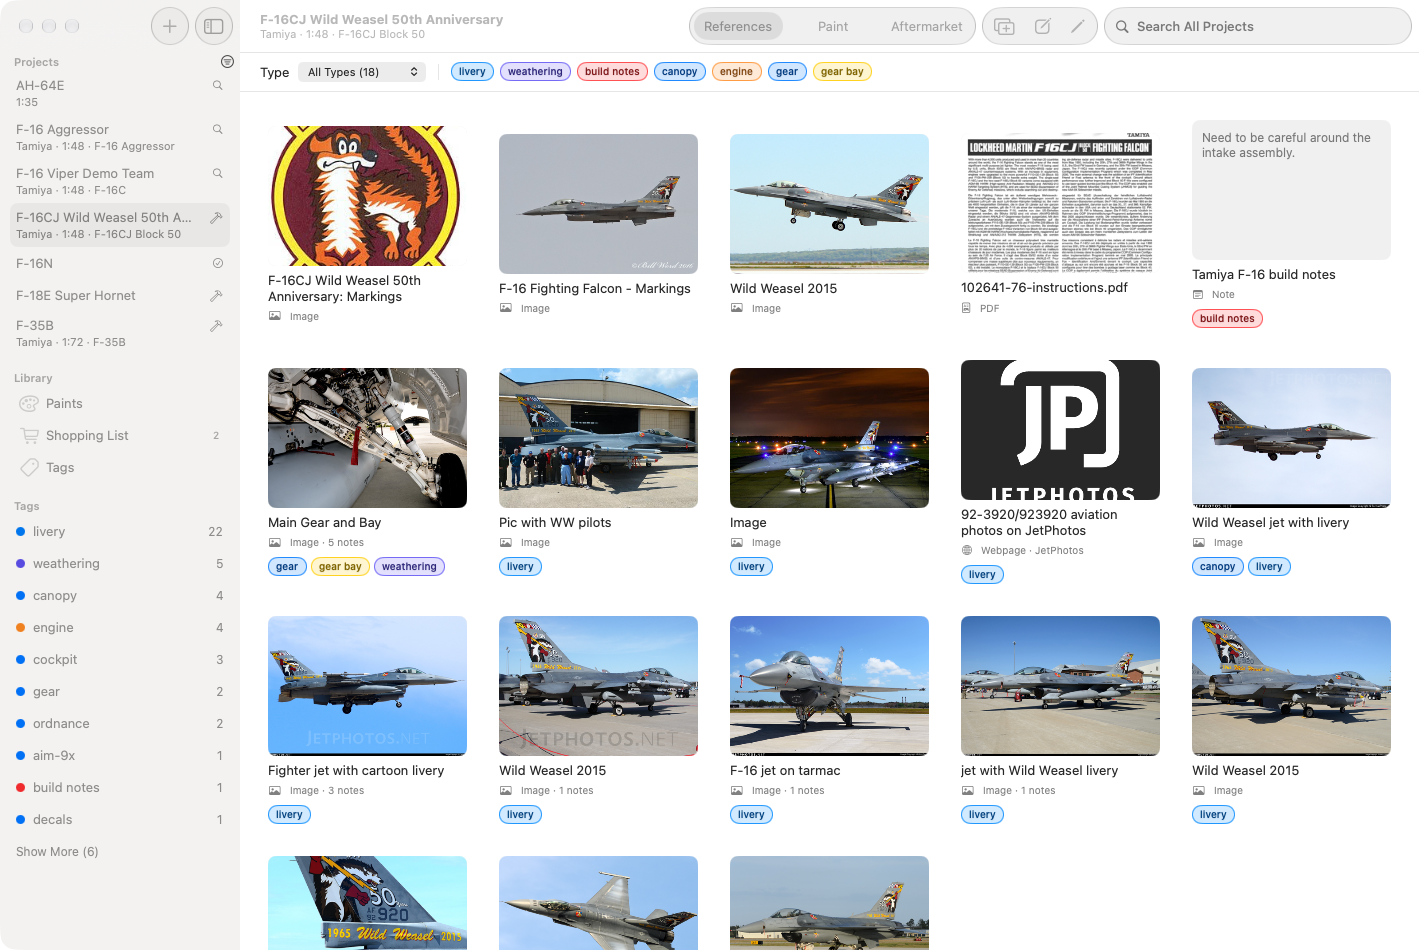
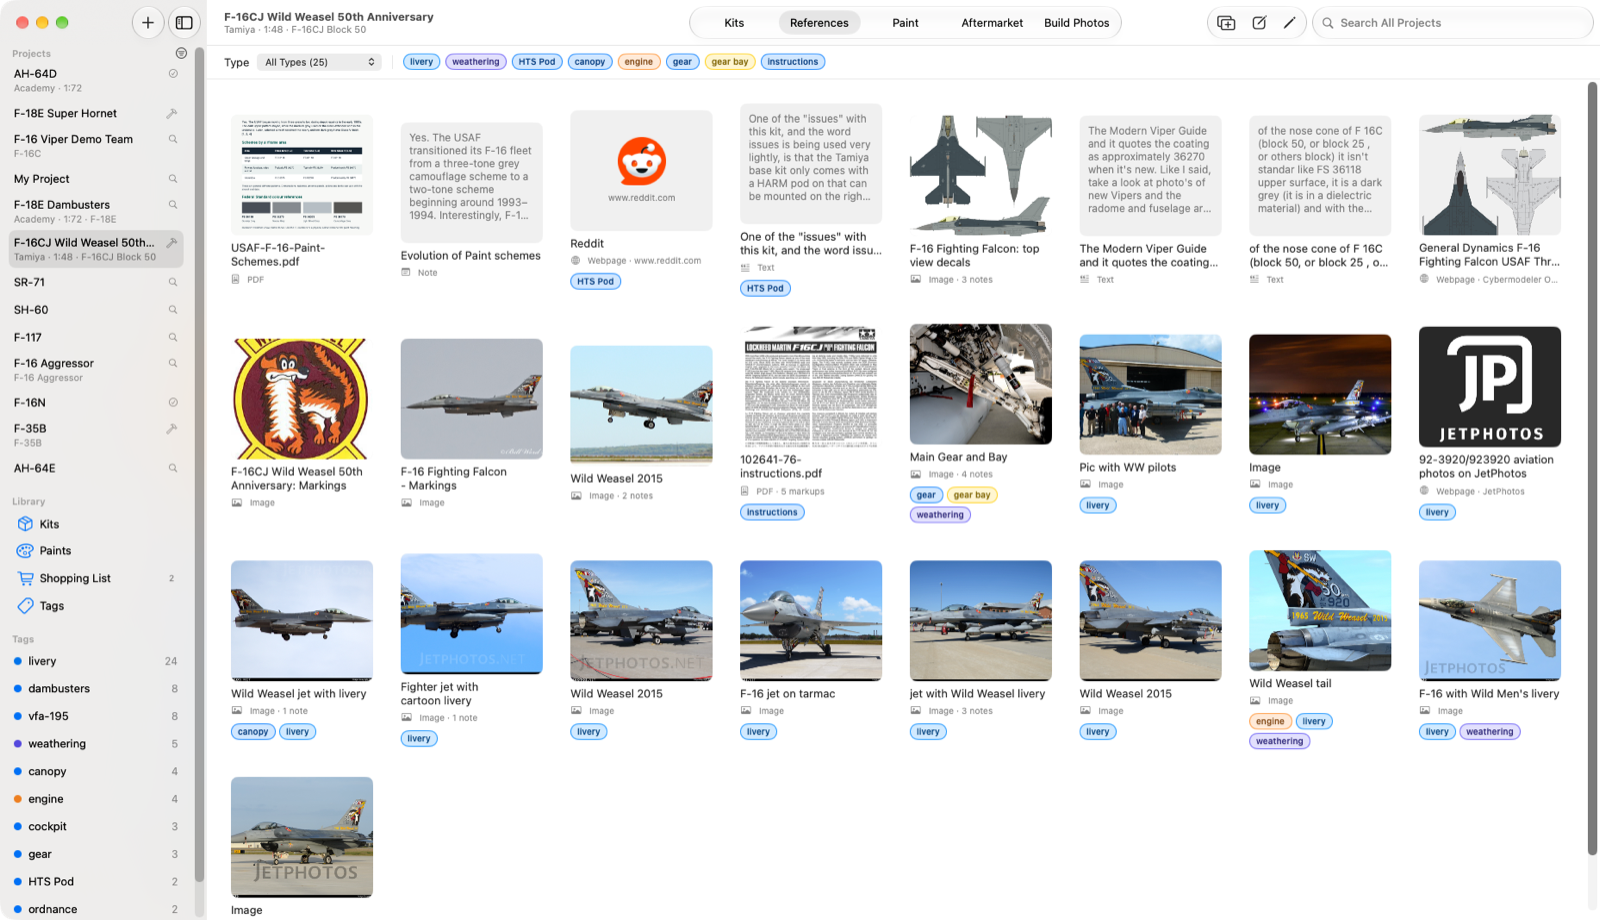
Add the Safari extension and refresh the screenshots
Adds a Safari extension section for BenchBook 1.1.1, replaces the Kits,
Safari and Custom mixes placeholders with screenshots, and retakes the
other shots in the current app. Kits and Search go full width so their
strips stay readable, and the nav links hide below 840px so the bar
no longer overflows.

Claude-Session: https://claude.ai/code/session_01W8jcz1cSFdx9EVAmvH3kMR

diff --git a/index.html b/index.html
@@ -23,6 +23,7 @@
     <nav class="nav-links" aria-label="Sections">
       <a href="#kits">Kits</a>
       <a href="#capture">Capture</a>
+      <a href="#safari">Safari</a>
       <a href="#markup">Mark Up</a>
       <a href="#pdf">PDFs</a>
       <a href="#paints">Paints</a>
@@ -53,11 +54,11 @@
         </a>
         <a class="button secondary" href="https://github.com/jvanlint/BenchBook">View on GitHub</a>
       </div>
-      <p class="fineprint">Mac: version 1.1 · Free · Requires macOS 15 or later · Signed and notarised by Apple</p>
+      <p class="fineprint">Mac: version 1.1.1 · Free · Requires macOS 15 or later · Signed and notarised by Apple</p>
       <p class="fineprint">Windows: preview · Free · Requires Windows 10 (version 2004) or later · Not yet signed</p>
 
       <div class="hero-shot">
-        <img class="shot" src="assets/screens/main.png" width="1419" height="950"
+        <img class="shot" src="assets/screens/main.png" width="1600" height="920"
              alt="BenchBook's main window: projects and tags in the sidebar, and an F-16CJ Wild Weasel project's references — photos, instructions, a note and a webpage — with coloured tags.">
       </div>
     </div>
@@ -73,7 +74,7 @@
     <div class="highlight">
       <div class="glyph blue"><svg viewBox="0 0 24 24" fill="none" stroke="currentColor" stroke-width="2" stroke-linecap="round" stroke-linejoin="round" aria-hidden="true"><path d="M12 3v12m0 0-4-4m4 4 4-4M4 17v2a2 2 0 0 0 2 2h12a2 2 0 0 0 2-2v-2"/></svg></div>
       <h3>Capture from anywhere</h3>
-      <p>Drag, paste or share photos, PDFs, web pages, videos and text straight into a project.</p>
+      <p>Drag, paste or share photos, PDFs, web pages, videos and text straight into a project, or save them from Safari with a right-click.</p>
     </div>
     <div class="highlight">
       <div class="glyph yellow"><svg viewBox="0 0 24 24" fill="none" stroke="currentColor" stroke-width="2" stroke-linecap="round" stroke-linejoin="round" aria-hidden="true"><rect x="3" y="4" width="18" height="16" rx="2"/><rect x="7" y="8" width="6" height="5" stroke-dasharray="2 2"/></svg></div>
@@ -109,12 +110,12 @@
         <li>Move or copy references to another project by dragging them onto it in the sidebar, notes and markups included.</li>
       </ul>
     </div>
-    <img class="shot cropped" src="assets/screens/aftermarket.png" loading="lazy" decoding="async" width="1419" height="300"
+    <img class="shot cropped" src="assets/screens/aftermarket.png" loading="lazy" decoding="async" width="1600" height="236"
          alt="A project's Aftermarket tab listing FOD covers, an ALQ-131 centre-line pod and LAU rails, each resin at 1:48, with pictures and a status of Considering or In stash.">
   </section>
 
   <!-- Kits -->
-  <section class="wrap feature flip" id="kits">
+  <section class="wrap feature wide" id="kits">
     <div class="feature-text">
       <span class="tag">Kits · New in 1.1 for Mac</span>
       <h2>Know what's in the stash.</h2>
@@ -127,8 +128,8 @@
         <li>Take the box art with your iPhone's camera, straight into the kit.</li>
       </ul>
     </div>
-    <img class="shot" src="assets/screens/kits-placeholder.svg" loading="lazy" decoding="async" width="1400" height="900"
-         alt="Placeholder for a screenshot of the Kits catalogue.">
+    <img class="shot cropped" src="assets/screens/kits.png" loading="lazy" decoding="async" width="1600" height="165"
+         alt="An F-16CJ Wild Weasel project's Kits tab listing Tamiya's 1:48 F-16CJ Block 50 Fighting Falcon, kit 61098, with its box art and a status of WIP.">
   </section>
 
   <!-- Capture -->
@@ -144,12 +145,30 @@
         <li>Select a whole set by dragging a rectangle across the gallery, just like in Finder.</li>
       </ul>
     </div>
-    <img class="shot" src="assets/screens/selection.png" loading="lazy" decoding="async" width="980" height="653"
-         alt="Dragging a selection rectangle across the References gallery to select several tiles: photos, a note and a gear-bay image with five notes.">
+    <img class="shot" src="assets/screens/selection.png" loading="lazy" decoding="async" width="1388" height="588"
+         alt="Dragging a selection rectangle across the References gallery to select ten tiles: an instructions PDF, a gear-bay photo with four notes, a JetPhotos page and several F-16 photos.">
+  </section>
+
+  <!-- Safari extension -->
+  <section class="wrap feature" id="safari">
+    <div class="feature-text">
+      <span class="tag">Safari extension · New in 1.1.1 for Mac</span>
+      <h2>Right-click. Saved.</h2>
+      <p>Turn on BenchBook in Safari's settings, then right-click any page, image or highlighted text and save it to BenchBook from the menu. It goes straight into the project you used last, and a small notice says where it went.</p>
+      <ul class="points">
+        <li>Change your mind? Click <strong>Change…</strong> in the notice to move it to another project, or add tags and a note.</li>
+        <li>Choose the project, tags and note before you save with the BenchBook button in Safari's toolbar.</li>
+        <li>Save a PDF open in Safari as the PDF itself, including from sites you're signed in to.</li>
+        <li>Save a page twice and BenchBook tells you it's already there, instead of adding a copy.</li>
+        <li>The extension talks only to BenchBook on your Mac. Requires Safari 18.4 or later.</li>
+      </ul>
+    </div>
+    <img class="shot" src="assets/screens/safari.png" loading="lazy" decoding="async" width="834" height="560"
+         alt="A Wikipedia page in Safari with the VFA-195 Dambusters squadron badge, and BenchBook's Change where it's saved panel in the corner: Project set to F-18E Dambusters, with Tags and Note fields and Cancel and Save buttons.">
   </section>
 
   <!-- Image notes -->
-  <section class="wrap feature" id="markup">
+  <section class="wrap feature flip" id="markup">
     <div class="feature-text">
       <span class="tag">Image notes</span>
       <h2>Write on the photo, not on a sticky note.</h2>
@@ -161,11 +180,11 @@
       </ul>
     </div>
     <img class="shot" src="assets/screens/image-notes.png" loading="lazy" decoding="async" width="1490" height="934"
-         alt="The image viewer showing an F-16 main gear bay with five numbered boxes drawn on it, and their notes listed in the side panel: chipping, discolouration and a gun metal colour.">
+         alt="The image viewer showing an F-16CJ Wild Weasel with three numbered boxes drawn on it, and their notes listed in the side panel: the HTS pod's left cheek, launch rail weathering and a vent between two decals.">
   </section>
 
   <!-- PDF markup -->
-  <section class="wrap feature flip" id="pdf">
+  <section class="wrap feature" id="pdf">
     <div class="feature-text">
       <span class="tag">PDF markup</span>
       <h2>Mark up the instructions, not a printout.</h2>
@@ -176,8 +195,8 @@
         <li>Your markups sit on top. The original PDF is never edited.</li>
       </ul>
     </div>
-    <img class="shot" src="assets/screens/pdf-markup.png" loading="lazy" decoding="async" width="1379" height="1139"
-         alt="The PDF viewer showing page 2 of F-16CJ kit instructions with page thumbnails, yellow highlights on two assembly steps, a note and a red arrow, and the five numbered markups listed in the side panel.">
+    <img class="shot" src="assets/screens/pdf-markup.png" loading="lazy" decoding="async" width="1095" height="942"
+         alt="Page 2 of Tamiya's F-16CJ instructions in BenchBook's PDF viewer, with highlights on the cockpit and landing-gear steps and on part D6, a yellow note and a red arrow, all listed in the side panel beside the page thumbnails.">
   </section>
 
   <!-- Compare -->
@@ -193,7 +212,7 @@
       </ul>
     </div>
     <img class="shot" src="assets/screens/compare.png" loading="lazy" decoding="async" width="1692" height="913"
-         alt="Two F-16 photos side by side in one window, each zoomed separately with numbered note boxes; the selected image is outlined and its note shows in the side panel.">
+         alt="The Compare window with two F-16CJ photos side by side, each with numbered boxes, and the selected photo's note in the side panel: no demarcation line suggests the two-tone USAF scheme.">
   </section>
 
   <!-- Paints -->
@@ -211,8 +230,8 @@
         <li><a href="#paint-lists">Download ready-made lists</a> for Tamiya, Mr. Hobby, AK Interactive and Vallejo.</li>
       </ul>
     </div>
-    <img class="shot cropped" src="assets/screens/paints.png" loading="lazy" decoding="async" width="980" height="292"
-         alt="An AH-64E project's Paint tab: four AK Interactive and Tamiya paints with swatches, FS and RAL codes and Owned ticks, and a header saying two are still to buy.">
+    <img class="shot cropped" src="assets/screens/paints.png" loading="lazy" decoding="async" width="1600" height="203"
+         alt="An F-16CJ project's Paint tab: two FS 595 colours, 36118 for the upper surfaces and 36270 for the underside, still waiting for a paint, and Tamiya XF-69 NATO Black for the cockpit, ticked as owned.">
   </section>
 
   <!-- Custom mixes -->
@@ -227,8 +246,8 @@
         <li>Give a mix a colour standard, so it's offered for that colour alongside bottled paints.</li>
       </ul>
     </div>
-    <img class="shot" src="assets/screens/mixes-placeholder.svg" loading="lazy" decoding="async" width="1400" height="900"
-         alt="Placeholder for a screenshot of a custom mix and its recipe.">
+    <img class="shot" src="assets/screens/mixes.png" loading="lazy" decoding="async" width="628" height="968"
+         alt="The New Mix sheet over the paint catalogue: a mix called My Navy Gray with a recipe of 1 part AK Interactive Insignia White to 10 parts Dark Ghost Grey, a note that neither paint is owned yet, colour standard FS 595 36320, a swatch and a note.">
   </section>
 
   <!-- Paint lists -->
@@ -299,7 +318,7 @@
   </section>
 
   <!-- Search -->
-  <section class="wrap feature flip" id="search">
+  <section class="wrap feature wide" id="search">
     <div class="feature-text">
       <span class="tag">Search</span>
       <h2>Find that photo you saved six months ago.</h2>
@@ -310,8 +329,8 @@
         <li>Narrow results to a tag as you type.</li>
       </ul>
     </div>
-    <img class="shot" src="assets/screens/search.png" loading="lazy" decoding="async" width="980" height="653"
-         alt="Searching for “discoloration” finds matching box notes on four images across two projects, each listed under its image with the word in bold.">
+    <img class="shot cropped" src="assets/screens/search.png" loading="lazy" decoding="async" width="1600" height="303"
+         alt="Searching for “discoloration” finds matching box notes on two images in two projects, a main gear bay photo and an F-18E photo, each listed under its image with the word in bold.">
   </section>
 
   <!-- Tutorials -->
@@ -437,7 +456,7 @@
       <h2>Made for the Mac, not ported to it.</h2>
       <p>BenchBook is a native app that works the way your Mac does.</p>
       <div class="mac-grid">
-        <div><b>Share menu</b><span>Send pages and images from Safari and other apps straight to a project.</span></div>
+        <div><b>Share menu and Safari</b><span>Send pages and images from any app, or right-click in Safari to save them to a project.</span></div>
         <div><b>Quick Look</b><span>Press Space to preview any PDF, image or document.</span></div>
         <div><b>Keyboard first</b><span>Shortcuts for capturing, zooming, drawing, finding and switching tabs.</span></div>
         <div><b>Light and dark</b><span>Follows your Mac's appearance, with its system controls and fonts.</span></div>

diff --git a/styles.css b/styles.css
@@ -742,11 +742,15 @@ footer a { color: var(--ink-soft); }
   .privacy-grid { grid-template-columns: 1fr; }
 }
 
+/* The links stop fitting beside the brand and button below this width. */
+@media (max-width: 840px) {
+  .nav-links { display: none; }
+  .nav .button { margin-left: auto; }
+}
+
 @media (max-width: 640px) {
   body { font-size: 16px; }
   .wrap { padding: 0 16px; }
-  .nav-links { display: none; }
-  .nav .button { margin-left: auto; }
   .hero { padding-top: 56px; }
   .hero .lede { font-size: 18px; }
   .highlights, .mac-grid, .tutorial-grid, .paint-list-grid { grid-template-columns: 1fr; }

diff --git a/README.md b/README.md
@@ -19,7 +19,6 @@ python3 -m http.server 8000   # then visit http://localhost:8000
 ## Before publishing
 
 - **Screenshots** in `assets/screens/` are captures of BenchBook's own windows (`screencapture -l <window id> -o`), so the corners stay transparent and the page adds the shadow. Some photos in them carry third-party watermarks (JetPhotos); replace those shots if anyone objects. Retake a shot by capturing the same window at a similar size and overwriting the file.
-- **Placeholders.** The Kits and Custom mixes sections show `kits-placeholder.svg` and `mixes-placeholder.svg`. Capture the Kits window and an Edit Mix sheet as above, save them as PNGs in `assets/screens/`, and change each `<img>`'s `src`, `width`, `height` and `alt` to match.
 - **Tutorials** link to YouTube instead of embedding players, so the page loads nothing from YouTube. Each card's thumbnail is a 640×360 copy of the video's YouTube thumbnail, saved in `assets/videos/`. To add a video, copy a card in the Tutorials section and add its thumbnail.
 - **Download link.** Buttons point to `github.com/jvanlint/BenchBook/releases/latest`, which always serves the newest release.
 - **Wording.** Check the footer credit and the "Free" and "Signed and notarised by Apple" claims still hold.
